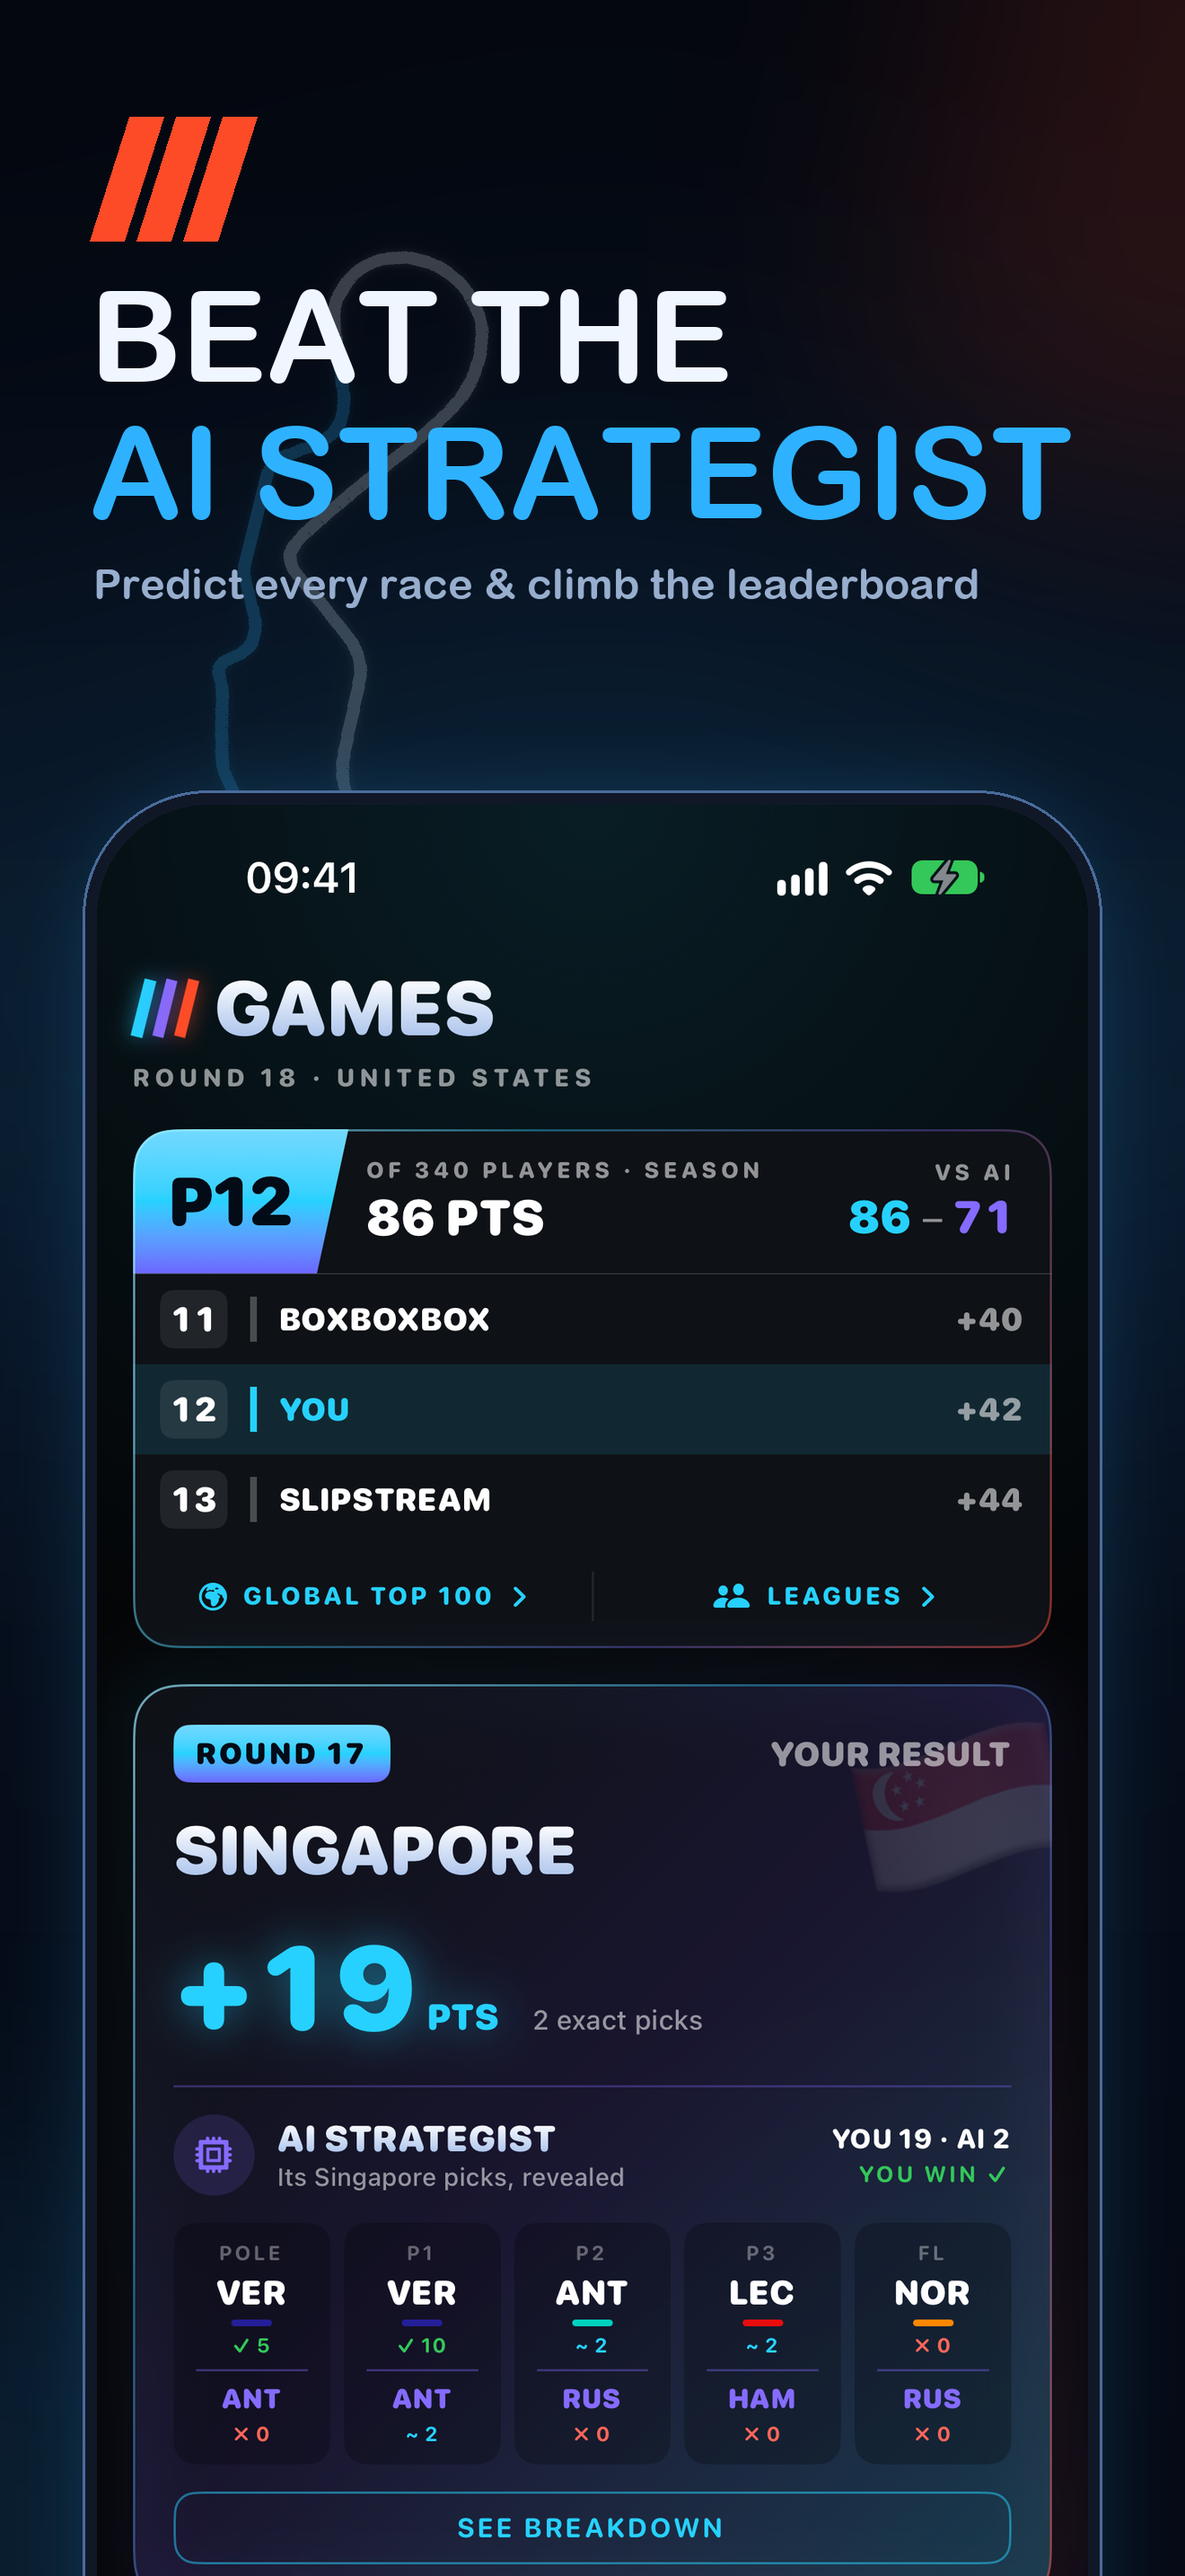
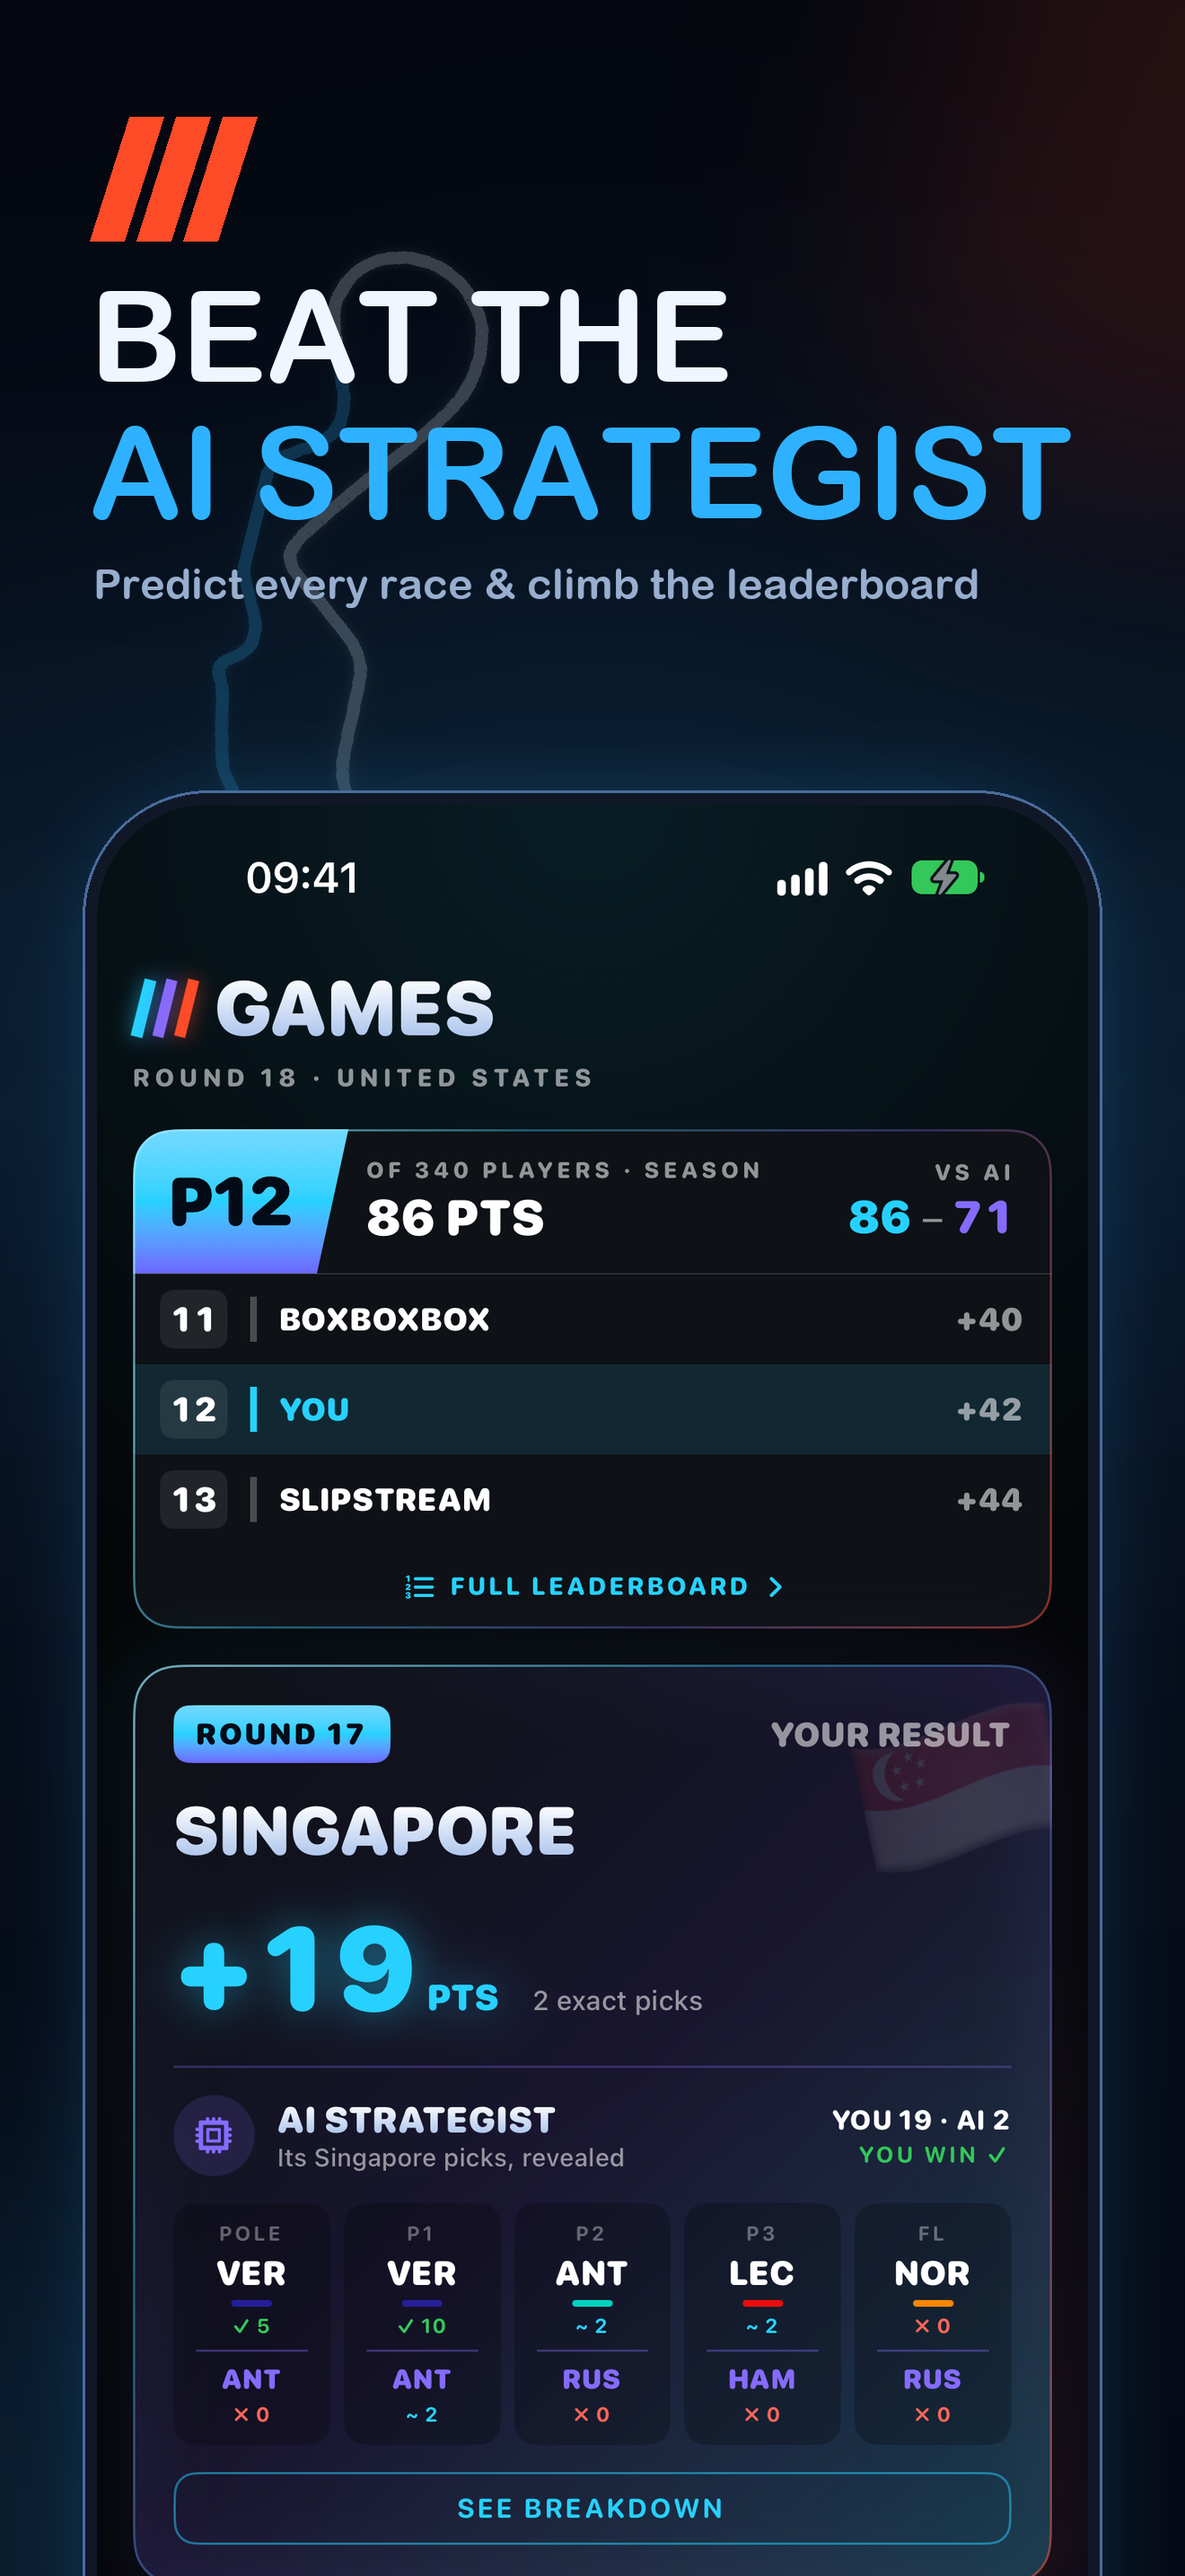
Games: one 'Full leaderboard' link (the board itself switches season / last round / leagues); Reaction Wall and Lights Out slide up smoothly: audio engine starts after the presentation, each light is one flattened drawing (LED ring in a Canvas, drawingGroup); Games store panel recaptured

diff --git a/TeamRadio/Views/Game/GamesView.swift b/TeamRadio/Views/Game/GamesView.swift
@@ -78,12 +78,7 @@ struct GamesView: View {
     @State private var showResult = false
     @State private var showLightsOut = false
     @State private var showWall = false
-    @State private var leaderboard: BoardSheet?
-
-    enum BoardSheet: String, Identifiable {
-        case global, leagues
-        var id: String { rawValue }
-    }
+    @State private var showLeaderboard = false
 
     var body: some View {
         ZStack {
@@ -140,7 +135,7 @@ struct GamesView: View {
                     .presentationBackground(Theme.background)
             }
         }
-        .sheet(item: $leaderboard) { which in
+        .sheet(isPresented: $showLeaderboard) {
             VStack(alignment: .leading, spacing: 12) {
                 HStack(spacing: 8) {
                     TrioSlashes(height: 18)
@@ -148,7 +143,7 @@ struct GamesView: View {
                 }
                 .padding(.horizontal, 16)
                 .padding(.top, 22)
-                LeaderboardView(leagues: which == .leagues)
+                LeaderboardView()
             }
             .presentationDetents([.large])
             .presentationDragIndicator(.visible)
@@ -159,8 +154,7 @@ struct GamesView: View {
     private func content(now: Date) -> some View {
         VStack(alignment: .leading, spacing: 16) {
             title
-            RankBoard(board: model.seasonBoard,
-                      onGlobal: { leaderboard = .global }, onLeagues: { leaderboard = .leagues })
+            RankBoard(board: model.seasonBoard, onOpen: { showLeaderboard = true })
             PicksHero(game: game, state: game.cardState(at: now), now: now, seasonRounds: model.season.count,
                       onPicks: { showPicks = true }, onResult: { showResult = true })
             SectionTitle("ARCADE")
@@ -192,12 +186,11 @@ struct GamesView: View {
 /// The player's season standing as the leaderboard itself (approved draft
 /// C, Marketing/drafts/2026-10-13/leaderboard-A-B-C.png): a slanted
 /// position tag, points and the score against the AI Strategist, then the
-/// players just above and below in timing-tower lines, and links to the
-/// global table and the private leagues.
+/// players just above and below in timing-tower lines, and one link to the
+/// full leaderboard (season, last round and leagues).
 private struct RankBoard: View {
     let board: LeaderboardService.Board?
-    let onGlobal: () -> Void
-    let onLeagues: () -> Void
+    let onOpen: () -> Void
 
     private var leader: Int { board?.top.first?.points ?? 0 }
 
@@ -212,21 +205,19 @@ private struct RankBoard: View {
 
     var body: some View {
         VStack(spacing: 0) {
-            Button(action: onGlobal) { summary }
+            Button(action: onOpen) { summary }
                 .buttonStyle(.plain)
             if !lines.isEmpty {
                 Divider().overlay(Color.white.opacity(0.08))
                 ForEach(lines) { entry in
-                    Button(action: onGlobal) { line(entry) }
+                    Button(action: onOpen) { line(entry) }
                         .buttonStyle(.plain)
                 }
             }
-            HStack(spacing: 0) {
-                link("globe.europe.africa.fill", (board?.total ?? 0) >= 100 ? "GLOBAL TOP 100" : "GLOBAL TABLE", action: onGlobal)
-                Rectangle().fill(Color.white.opacity(0.08)).frame(width: 1, height: 22)
-                link("person.2.fill", "LEAGUES", action: onLeagues)
-            }
-            .padding(.vertical, 12)
+            // One way in: the leaderboard switches between the season, the
+            // last round and the player's leagues itself.
+            link("list.number", "FULL LEADERBOARD", action: onOpen)
+                .padding(.vertical, 12)
         }
         .background(Theme.card)
         .clipShape(RoundedRectangle(cornerRadius: 18))

diff --git a/TeamRadio/Views/Game/ReactionWallView.swift b/TeamRadio/Views/Game/ReactionWallView.swift
@@ -76,6 +76,9 @@ struct ReactionWallView: View {
         }
         .onDisappear { game?.cancel() }
         .task {
+            // Start the audio engine once the screen has slid up: starting it
+            // during the presentation made the slide stutter.
+            try? await Task.sleep(for: .milliseconds(450))
             StartSounds.shared.prepare()
             #if DEBUG
             // -WallDemo YES: starts and plays itself, for screenshots and videos
@@ -443,12 +446,16 @@ struct WallPad: View {
             Circle()
                 .fill(LinearGradient(colors: [Color(white: 0.20), Color(white: 0.05)], startPoint: .top, endPoint: .bottom))
             Circle().strokeBorder(Color.white.opacity(0.14), lineWidth: 1)
-            ForEach(0..<18, id: \.self) { i in
-                Circle()
-                    .fill(lit ? tint : Color.white.opacity(0.07))
-                    .frame(width: size * 0.06, height: size * 0.06)
-                    .offset(y: -size * 0.40)
-                    .rotationEffect(.degrees(Double(i) * 20))
+            // The LED ring in one drawing, not 18 separate views.
+            Canvas { ctx, canvas in
+                let dot = size * 0.06
+                let c = CGPoint(x: canvas.width / 2, y: canvas.height / 2)
+                for i in 0..<18 {
+                    let a = Double(i) * 20 * .pi / 180 - .pi / 2
+                    let p = CGPoint(x: c.x + cos(a) * size * 0.40, y: c.y + sin(a) * size * 0.40)
+                    ctx.fill(Path(ellipseIn: CGRect(x: p.x - dot / 2, y: p.y - dot / 2, width: dot, height: dot)),
+                             with: .color(lit ? tint : Color.white.opacity(0.07)))
+                }
             }
             Circle()
                 .fill(lit
@@ -461,6 +468,9 @@ struct WallPad: View {
                 .opacity(lit ? 0.9 : 0.25)
         }
         .frame(width: size, height: size)
+        // One flattened image per light (housing, LEDs, lens); the glow
+        // stays outside so it isn't clipped.
+        .drawingGroup()
         .shadow(color: lit ? tint.opacity(0.9) : .black.opacity(0.6), radius: lit ? 16 : 4, y: lit ? 0 : 3)
     }
 }

diff --git a/TeamRadio/Views/Game/LightsOutView.swift b/TeamRadio/Views/Game/LightsOutView.swift
@@ -50,6 +50,8 @@ struct LightsOutView: View {
         }
         .onDisappear { sequence?.cancel() }
         .task {
+            // After the slide-up, which stuttered when the engine started during it.
+            try? await Task.sleep(for: .milliseconds(450))
             StartSounds.shared.prepare()
             // Clear a best saved before anticipated starts were caught.
             if best > 0, best < Self.minReaction { best = 0 }
